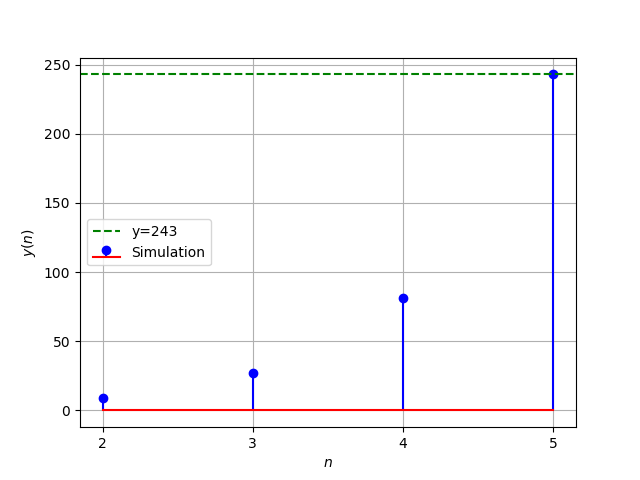
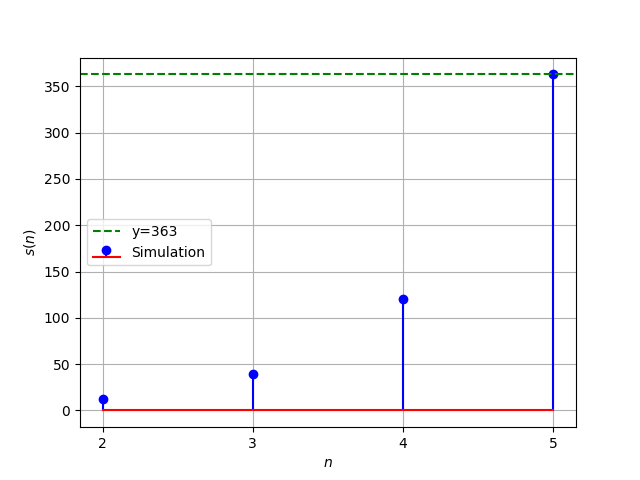
Add files via upload

diff --git a/11/codes/main.c b/11/codes/main.c
@@ -1,25 +1,30 @@
-
 #include <stdio.h>
 #include <math.h>
 
 int main() {
     FILE *fp;
-    int a = 3;  // first term
-    int r = 3;  // common ratio
-    int n = 5;  // number of terms
+    int n = 5; // Number of terms in the GP
+    int a = 3; // First term
+    int r = 3; // Common ratio
+    int sum = 0;
+    int i;
+    int x_n;
 
-    // Calculate the terms of the G.P. and write to file
-    fp = fopen("terms.txt", "w");
+    fp = fopen("gp_sum.txt", "w");
     if (fp == NULL) {
         printf("Error opening file.\n");
         return 1;
     }
 
-    for (int i = 0; i < n; i++) {
-        int term = a * pow(r, i);
-        fprintf(fp,"%d" "%d\n",n ,  term);
+    for (i = 0; i < n; i++) {
+        sum += a;
+        x_n=pow(r,i+1);
+        fprintf(fp, "%d %d %d\n", i+1, x_n, sum);
+        a *= r;
     }
 
     fclose(fp);
+
     return 0;
+}
 }

diff --git a/11/codes/main.py b/11/codes/main.py
@@ -1,18 +1,18 @@
 import matplotlib.pyplot as plt
 import numpy as np
 
-data=np.loadtxt("terms.txt", skiprows=1)
+data=np.loadtxt("data.txt", skiprows=1)
 
 plt.close("all")
 
 n=data[:5,0]
-y_n=data[:5,1]
+s_n=data[:5,2]
 
 
-plt.stem(n, y_n, markerfmt='bo', linefmt='b-', basefmt='r-',label=r'Simulation') 
-plt.axhline(y=243, color='green', linestyle='--',label='y=243')
+plt.stem(n, s_n, markerfmt='bo', linefmt='b-', basefmt='r-',label=r'Simulation') 
+plt.axhline(y=363, color='green', linestyle='--',label='y=363')
 plt.xlabel('$n$')
-plt.ylabel('$y(n)$')
+plt.ylabel('$s(n)$')
 plt.xticks(n)
 
 

diff --git a/11/main.tex b/11/main.tex
@@ -69,7 +69,7 @@
 \end{center}
 by using sum to n terms in G.P
 \begin{align}
-    s(n)&=a(\frac{r^{n}-1}{r-1})\\
+    y(n)&=a(\frac{r^{n}-1}{r-1})\\
     120&=\frac{3^{n+1}-3}{2}\\
     n&=4
 \end{align}
